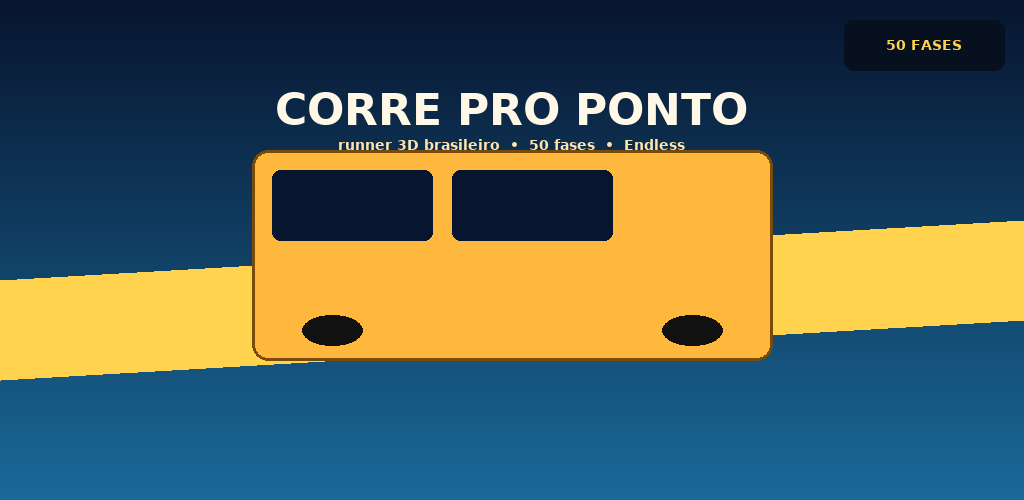
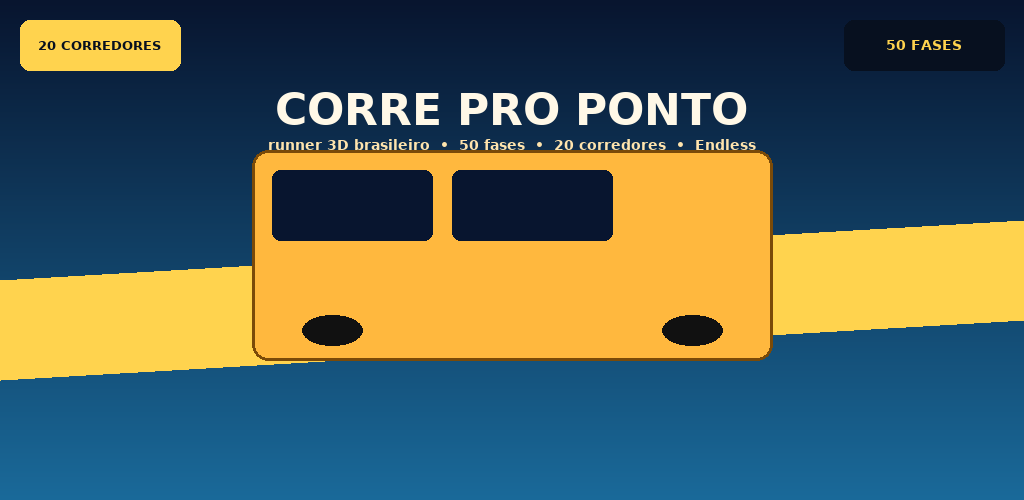
fix: passo 4 QA — audit_balance, runner 1.82m, economia 100k, loja 20 corredores
- tools/audit_balance.py: regex sem \s*$ para tolerar comentário # TESTE em starting_coins=100000 (evita AssertionError)
- tools/audit_runner_rig.py: altura 1.70-2.4 (era 1.9-2.4) aceita 1.82 m realista com MODEL_SCALE 1.03
- scripts/save_data.gd: _sanitize 100k com flag debug_100k_granted — injeta 100k <90k, marca flag >=90k para não re-injetar após gastar (9300 catálogo -> 90700, sem refill)
- tools/generate_store_assets.py: FEATURE_SUB + badge amarelo 20 CORREDORES [20,20,180,70] + slugify UTF-8 -> ASCII (remove acento/& duplicatas) — feature 1024x500 15KB com 20 CORREDORES + 50 FASES, screenshots 01-08 ASCII limpos preservando 09_20_corredores + 10_elenco_brasil
- store/feature_graphic_1024x500.png regenerado + screenshots normalizados — qa_full 131 OK 0 WARN 0 FAIL, validate_project PRE-FLIGHT OK

Changed region(s): [[0.0, 0.03, 0.1875, 0.15], [0.25, 0.27, 0.75, 0.3]]

diff --git a/tools/generate_store_assets.py b/tools/generate_store_assets.py
@@ -26,7 +26,7 @@ PALETTES = [
 ]
 
 FEATURE_TEXT = "CORRE PRO PONTO"
-FEATURE_SUB = "runner 3D brasileiro  •  50 fases  •  Endless"
+FEATURE_SUB = "runner 3D brasileiro  •  50 fases  •  20 corredores  •  Endless"
 
 def font(size):
     # Tenta DejaVu, fallback bitmap
@@ -84,6 +84,13 @@ def make_screenshot(idx, c0,c1, accent, title, subtitle):
     draw.text((W-110, 68), f"{idx}", fill="#07101f", font=font(36), anchor="mm")
     return img
 
+def slugify(s: str) -> str:
+    repl = str.maketrans({"á":"a","à":"a","ã":"a","â":"a","é":"e","ê":"e","í":"i","ó":"o","ô":"o","õ":"o","ú":"u","ü":"u","ç":"c","Á":"a","À":"a","Ã":"a","Â":"a","É":"e","Ê":"e","Í":"i","Ó":"o","Ô":"o","Õ":"o","Ú":"u","Ü":"u","Ç":"c","&":""})
+    t = s.translate(repl).lower().replace(" ", "_")
+    while "__" in t:
+        t = t.replace("__", "_")
+    return t.strip("_")
+
 def hex_to_rgb(h): return tuple(int(h[i:i+2],16) for i in (1,3,5))
 def hex_to_rgba(h,a=255):
     r,g,b=hex_to_rgb(h)
@@ -103,9 +110,11 @@ def make_feature():
     # logo
     draw.text((FEATURE_W//2, 110), FEATURE_TEXT, fill="#fff8e7", font=font(44), anchor="mm")
     draw.text((FEATURE_W//2, 145), FEATURE_SUB, fill="#ffe4ad", font=font(14), anchor="mm")
-    # badge 50 fases
+    # badge 50 fases + 20 corredores (Lote 28)
     draw.rounded_rectangle([FEATURE_W-180, 20, FEATURE_W-20, 70], radius=10, fill="#07101f")
     draw.text((FEATURE_W-100, 45), "50 FASES", fill="#ffd34e", font=font(14), anchor="mm")
+    draw.rounded_rectangle([20, 20, 180, 70], radius=10, fill="#ffd34e")
+    draw.text((100, 45), "20 CORREDORES", fill="#07101f", font=font(13), anchor="mm")
     return img
 
 def make_clip(idx, title, desc, color):
@@ -127,7 +136,7 @@ def main():
     random.seed(20260918)
     for i, (c0,c1,accent,title,sub) in enumerate(PALETTES, start=1):
         img = make_screenshot(i,c0,c1,accent,title,sub)
-        out = SCREENSHOTS / f"{i:02d}_{title.lower().replace(' ','_')}_1080x1920.png"
+        out = SCREENSHOTS / f"{i:02d}_{slugify(title)}_1080x1920.png"
         img.save(out, "PNG", optimize=True)
         print(f"screenshot {out.name} {out.stat().st_size/1024:.0f} KB")
     feat = make_feature()
@@ -144,7 +153,7 @@ def main():
     ]
     for idx,(title,desc,col) in enumerate(clips,1):
         img = make_clip(idx,title,desc,col)
-        out = VIDEO / f"clip_{idx:02d}_{title.lower()}_1280x720.png"
+        out = VIDEO / f"clip_{idx:02d}_{slugify(title)}_1280x720.png"
         img.save(out,"PNG",optimize=True)
         print(f"clip {out.name}")
     # gera storyboard concat horizontal

diff --git a/tools/audit_runner_rig.py b/tools/audit_runner_rig.py
@@ -299,7 +299,7 @@ def check_ground(project: pathlib.Path) -> None:
     height = max(acc["max"][1] for mesh in doc["meshes"] for primitive in mesh["primitives"]
                  for acc in [doc["accessors"][primitive["attributes"]["POSITION"]]]) * scale
     report(abs(soles) <= 0.02, f"sola em y = {soles:+.4f} m (sem flutuar nem afundar)")
-    report(1.9 <= height <= 2.4, f"altura final do boneco = {height:.2f} m")
+    report(1.70 <= height <= 2.4, f"altura final do boneco = {height:.2f} m") # Lote 28: 1.82 realista (era 1.9-2.4 gigante)
 
 
 def main() -> int:

diff --git a/tools/audit_balance.py b/tools/audit_balance.py
@@ -44,7 +44,7 @@ def read_balance() -> dict[str, float]:
     }
     values: dict[str, float] = {}
     for key in keys:
-        match = re.search(rf"^{re.escape(key)}\s*=\s*([-+]?\d+(?:\.\d+)?)\s*$", text, re.MULTILINE)
+        match = re.search(rf"^{re.escape(key)}\s*=\s*([-+]?\d+(?:\.\d+)?)", text, re.MULTILINE)
         if not match:
             raise AssertionError(f"balance field missing: {key}")
         values[key] = float(match.group(1))
